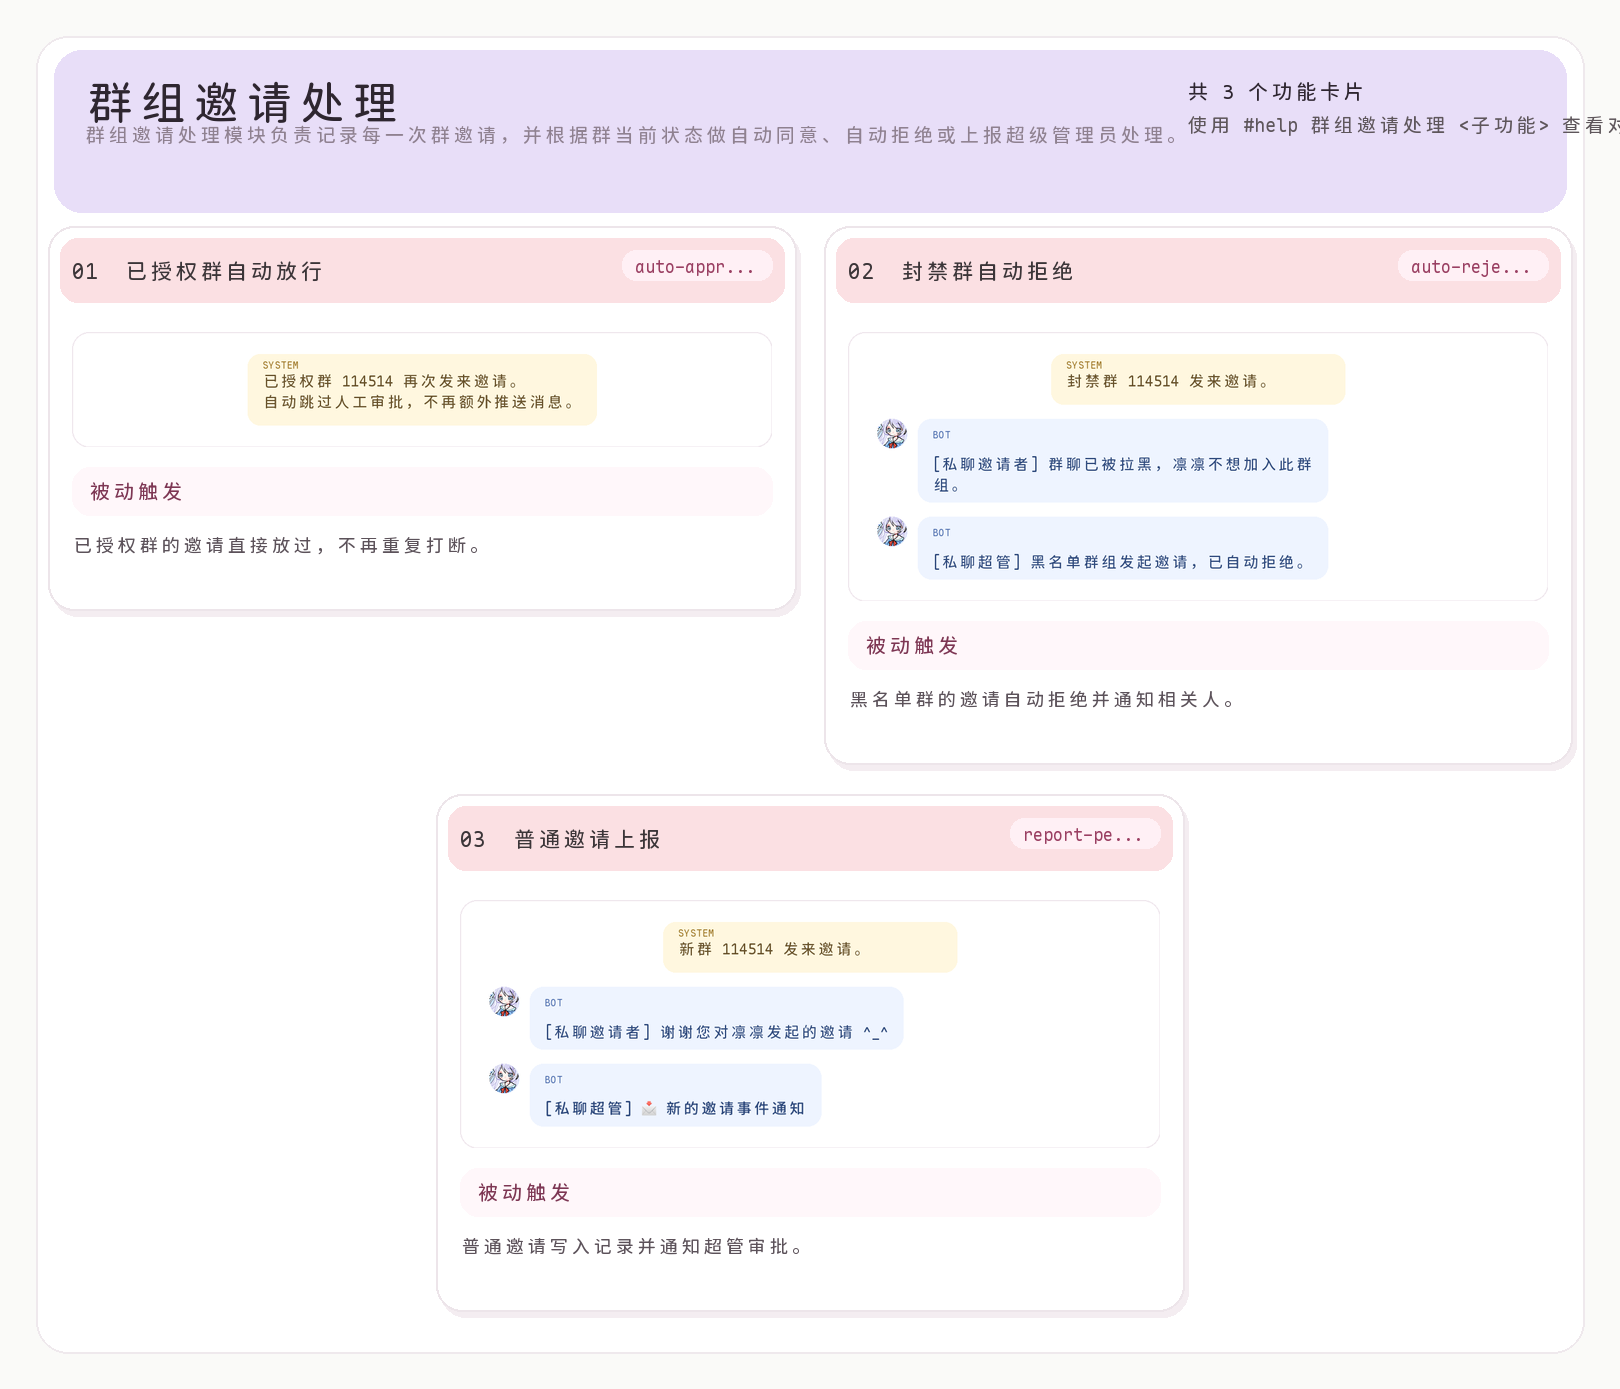
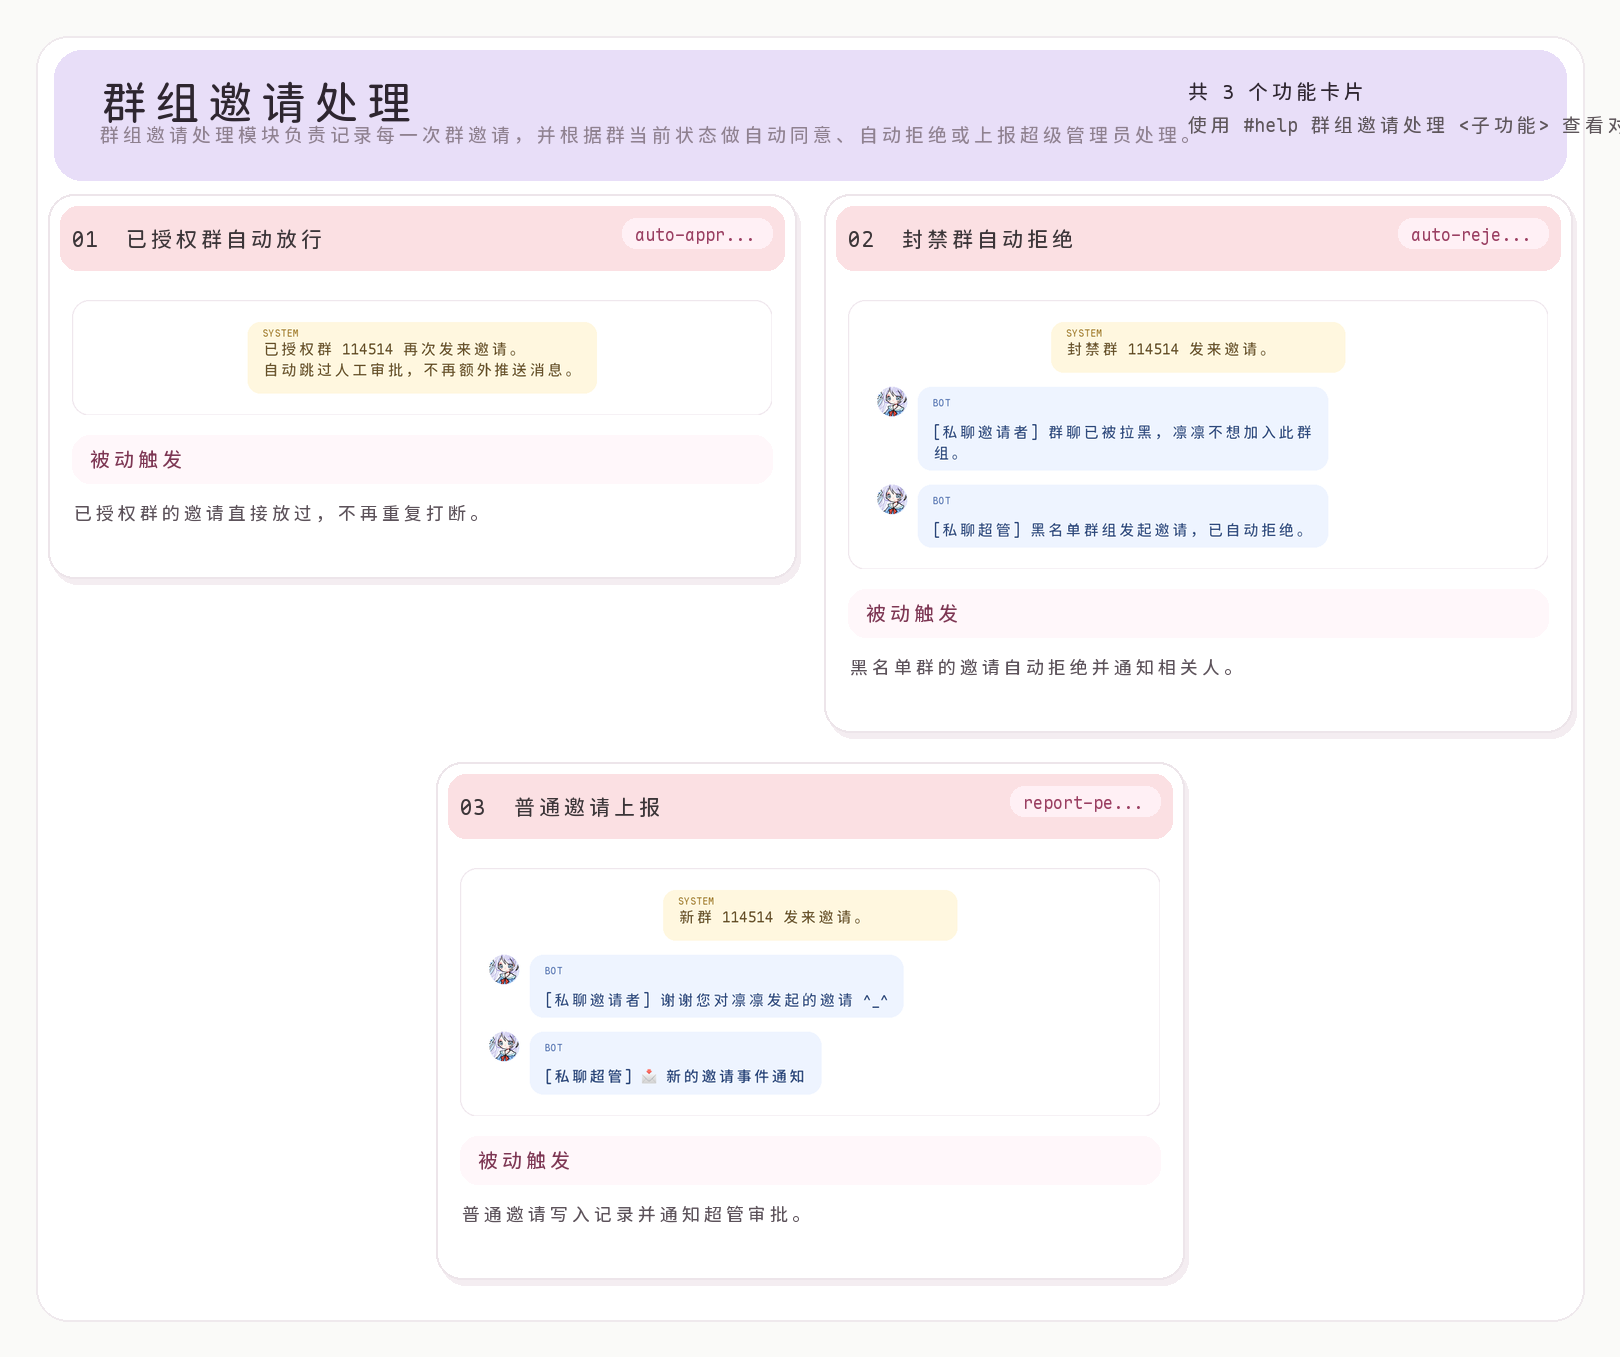
🎨 style(plugin-docs): tighten header layout and code chips

diff --git a/scripts/build_docs.py b/scripts/build_docs.py
@@ -72,6 +72,24 @@ class PreparedCollectionTile:
     image: Image.Image
 
 
+@dataclass(slots=True, frozen=True)
+class HeaderLayout:
+    panel_left: int
+    panel_top: int
+    panel_right: int
+    panel_height: int
+    left_x: int
+    right_x: int
+    left_width: int
+    right_width: int
+    title_y: int
+    summary_y: int
+    right_y: int
+    help_y: int
+    summary_lines: tuple[tuple, ...]
+    help_lines: tuple[tuple, ...]
+
+
 def iter_readmes() -> list[Path]:
     readmes: list[Path] = []
     for root in DOCS_ROOTS:
@@ -245,7 +263,10 @@ class DemoCollectionRenderer:
     HEADER_RIGHT_TOP = 74
     HEADER_BOTTOM_PAD = 26
     HEADER_SIDE_PAD = 18
-    HEADER_EXTRA_COMPENSATION = 24
+    HEADER_EXTRA_COMPENSATION = 10
+    HEADER_RIGHT_BLOCK_WIDTH = 360
+    HEADER_RIGHT_GAP = 20
+    HEADER_LEFT_GAP = 36
     CONTENT_TOP_GAP = 28
     CARD_PADDING = 24
     CARD_RADIUS = 26
@@ -271,10 +292,14 @@ class DemoCollectionRenderer:
     CARD_LABEL = "#A07C90"
     CARD_COMMAND_BG = "#FFF7FA"
     CARD_COMMAND_TEXT = "#7D3653"
+    CARD_COMMAND_CODE_BG = "#FFFFFF"
+    CARD_COMMAND_CODE_TEXT = "#8B2D57"
+    CARD_COMMAND_CODE_BORDER = "#F0C8D7"
     INDEX_BG = "#F7E5EE"
     INDEX_TEXT = "#9A3F62"
     INLINE_CODE_BG = "#FFF7FA"
     INLINE_CODE_TEXT = "#7D3653"
+    INLINE_CODE_BORDER = None
     INLINE_CODE_RADIUS = 9
     INLINE_CODE_PAD_X = 7
     INLINE_CODE_PAD_Y = 4
@@ -511,12 +536,11 @@ class DemoCollectionRenderer:
         tile_count: int,
         width: int,
     ) -> None:
-        panel_left = self.OUTER_MARGIN + self.HEADER_SIDE_PAD
-        panel_top = self.HEADER_TOP
-        panel_right = width - self.OUTER_MARGIN - self.HEADER_SIDE_PAD
-        panel_bottom = panel_top + self._header_height(
-            summary=summary, title=title, width=width
-        )
+        layout = self._measure_header_layout(summary=summary, title=title, width=width)
+        panel_left = layout.panel_left
+        panel_top = layout.panel_top
+        panel_right = layout.panel_right
+        panel_bottom = panel_top + layout.panel_height
         panel_fill, _ = self._palette_for_source(source_path)
         draw.rounded_rectangle(
             (panel_left, panel_top, panel_right, panel_bottom),
@@ -524,51 +548,32 @@ class DemoCollectionRenderer:
             fill=panel_fill,
         )
 
-        right_block_width = 360
-        right_x = panel_right - right_block_width - 20
-        left_width = right_x - self.HEADER_LEFT - 36
-        summary_lines = self._wrap_inline_text(
-            summary.strip() or "已按子功能拆分生成合集预览。",
-            self.summary_font,
-            left_width,
-            max_lines=6,
-        )
-        help_lines = self._wrap_inline_text(
-            f"使用 #help {title} <子功能> 查看对应说明",
-            self.summary_font,
-            right_block_width,
-            max_lines=4,
-        )
-        title_y = panel_top + 24
-        summary_y = title_y + 48
-        right_y = panel_top + 28
-
         draw.text(
-            (self.HEADER_LEFT, title_y),
+            (layout.left_x, layout.title_y),
             title,
             fill=self.TITLE,
             font=self.title_font,
         )
-        for index, line in enumerate(summary_lines):
+        for index, line in enumerate(layout.summary_lines):
             self._draw_inline_line(
                 draw,
-                x=self.HEADER_LEFT,
-                y=summary_y + index * 22,
+                x=layout.left_x,
+                y=layout.summary_y + index * self._line_height(self.summary_font, 4),
                 line=line,
                 font=self.summary_font,
                 fill=self.META,
             )
         draw.text(
-            (right_x, right_y),
+            (layout.right_x, layout.right_y),
             f"共 {tile_count} 个功能卡片",
             fill=self.TITLE,
             font=self.meta_font,
         )
-        for index, line in enumerate(help_lines):
+        for index, line in enumerate(layout.help_lines):
             self._draw_inline_line(
                 draw,
-                x=right_x,
-                y=right_y + 34 + index * 20,
+                x=layout.right_x,
+                y=layout.help_y + index * self._line_height(self.summary_font, 4),
                 line=line,
                 font=self.summary_font,
                 fill=self.HELP_TEXT,
@@ -768,9 +773,17 @@ class DemoCollectionRenderer:
         line: tuple,
         font: ImageFont.ImageFont | ImageFont.FreeTypeFont,
         fill: str,
+        code_background: str | None = None,
+        code_fill: str | None = None,
+        code_outline: str | None = None,
     ) -> None:
         cursor_x = x
         line_height = self._text_height(font)
+        chip_background = code_background or self.INLINE_CODE_BG
+        chip_fill = code_fill or self.INLINE_CODE_TEXT
+        chip_outline = (
+            code_outline if code_outline is not None else self.INLINE_CODE_BORDER
+        )
         for text, code in line:
             if not text:
                 continue
@@ -790,12 +803,13 @@ class DemoCollectionRenderer:
                     chip_y + chip_height,
                 ),
                 radius=self.INLINE_CODE_RADIUS,
-                fill=self.INLINE_CODE_BG,
+                fill=chip_background,
+                outline=chip_outline,
             )
             draw.text(
                 (cursor_x + self.INLINE_CODE_PAD_X, y),
                 text,
-                fill=self.INLINE_CODE_TEXT,
+                fill=chip_fill,
                 font=font,
             )
             cursor_x += chip_width
@@ -827,14 +841,36 @@ class DemoCollectionRenderer:
                 line=line,
                 font=font,
                 fill=fill,
+                code_background=self.CARD_COMMAND_CODE_BG,
+                code_fill=self.CARD_COMMAND_CODE_TEXT,
+                code_outline=self.CARD_COMMAND_CODE_BORDER,
             )
 
     def _header_height(self, *, summary: str, title: str, width: int) -> int:
-        right_block_width = 360
-        right_x = (
-            width - self.OUTER_MARGIN - self.HEADER_SIDE_PAD - right_block_width - 20
+        return self._measure_header_layout(
+            summary=summary,
+            title=title,
+            width=width,
+        ).panel_height
+
+    def _measure_header_layout(
+        self,
+        *,
+        summary: str,
+        title: str,
+        width: int,
+    ) -> HeaderLayout:
+        panel_left = self.OUTER_MARGIN + self.HEADER_SIDE_PAD
+        panel_top = self.HEADER_TOP
+        panel_right = width - self.OUTER_MARGIN - self.HEADER_SIDE_PAD
+        panel_width = panel_right - panel_left
+        right_block_width = min(
+            self.HEADER_RIGHT_BLOCK_WIDTH,
+            max(280, panel_width // 4),
         )
-        left_width = right_x - self.HEADER_LEFT - 36
+        left_x = panel_left + 44
+        right_x = panel_right - right_block_width - self.HEADER_RIGHT_GAP
+        left_width = max(260, right_x - left_x - self.HEADER_LEFT_GAP)
         summary_lines = self._wrap_inline_text(
             summary.strip() or "已按子功能拆分生成合集预览。",
             self.summary_font,
@@ -847,13 +883,44 @@ class DemoCollectionRenderer:
             right_block_width,
             max_lines=4,
         )
-        left_bottom = self.HEADER_TOP + 24 + 48 + len(summary_lines) * 22 + 12
-        right_bottom = self.HEADER_TOP + 28 + 34 + len(help_lines) * 20 + 20
+        title_y = panel_top + 24
+        summary_y = title_y + 48
+        right_y = panel_top + 28
+        help_y = right_y + 34
+        summary_step = self._line_height(self.summary_font, 4)
+        help_step = self._line_height(self.summary_font, 4)
+        summary_bottom = summary_y + len(summary_lines) * summary_step
+        help_bottom = help_y + len(help_lines) * help_step
+        title_bottom = title_y + self._text_height(self.title_font)
+        meta_bottom = right_y + self._text_height(self.meta_font)
         panel_height = max(
             self.HEADER_PANEL_MIN_HEIGHT,
-            max(left_bottom, right_bottom) - self.HEADER_TOP,
+            max(
+                title_bottom,
+                meta_bottom,
+                summary_bottom,
+                help_bottom,
+            )
+            - panel_top
+            + self.HEADER_BOTTOM_PAD
+            + self.HEADER_EXTRA_COMPENSATION,
         )
-        return panel_height + self.HEADER_BOTTOM_PAD + self.HEADER_EXTRA_COMPENSATION
+        return HeaderLayout(
+            panel_left=panel_left,
+            panel_top=panel_top,
+            panel_right=panel_right,
+            panel_height=panel_height,
+            left_x=left_x,
+            right_x=right_x,
+            left_width=left_width,
+            right_width=right_block_width,
+            title_y=title_y,
+            summary_y=summary_y,
+            right_y=right_y,
+            help_y=help_y,
+            summary_lines=tuple(summary_lines),
+            help_lines=tuple(help_lines),
+        )
 
     def _inline_line_width(
         self,

diff --git a/tests/test_plugin_docs.py b/tests/test_plugin_docs.py
@@ -915,6 +915,30 @@ def test_collection_thumbnail_crops_to_conversation_panel() -> None:
     assert thumb.height < full_scaled_height
 
 
+def test_collection_command_block_uses_distinct_code_chip_palette() -> None:
+    renderer = plugin_docs_script.DemoCollectionRenderer(columns=2, thumb_width=240)
+
+    assert renderer.CARD_COMMAND_CODE_BG != renderer.CARD_COMMAND_BG
+    assert renderer.CARD_COMMAND_CODE_BORDER is not None
+
+
+def test_collection_header_layout_stays_within_reasonable_height() -> None:
+    renderer = plugin_docs_script.DemoCollectionRenderer(columns=2, thumb_width=700)
+
+    layout = renderer._measure_header_layout(  # pyright: ignore[reportPrivateUsage]
+        title="学习模块",
+        summary=(
+            "学习模块保留传统 `study` / `学习` 快捷入口，用于把常用词条提交到 "
+            "`wordbank`。查询、审核、删除、投票删除、恢复、回复式词条管理和"
+            "被动匹配都由 `wordbank` 负责。"
+        ),
+        width=1978,
+    )
+
+    assert layout.panel_height < 340
+    assert layout.right_x + layout.right_width <= layout.panel_right - 8
+
+
 def test_plugin_docs_build_runs_generate_compose_and_validate_in_order(
     monkeypatch: Any,
 ) -> None:
